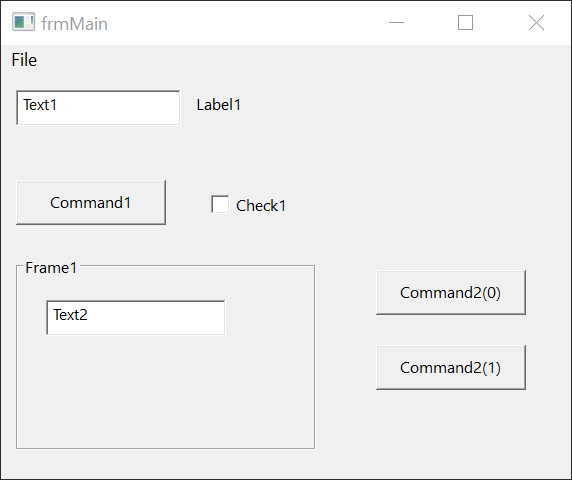
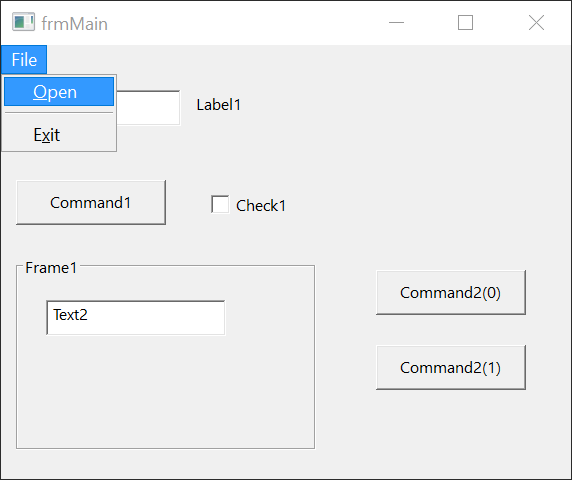
IDE: the last three pictures on BETA 1010 (Designer_Zoom50 with the grid off, Preview_Window with its File menu open, Export_Console without Export Verbose); shoot_docs opens a native menu with postWindowMessage (tb-launch.ps1's post mode) and lays its window over the form's

Changed region(s): [[0.0, 0.0938, 0.208, 0.3125]]

diff --git a/WIP.Screenshots.md b/WIP.Screenshots.md
@@ -340,8 +340,13 @@ whose project does not refer to the VB package.
 - **The zoom box is set by a `change` event on `#zoomSelect`**, never by the arrow keys, which
   also move the selected controls. Designer_Zoom shows the box and its list only, four rows of
   it: the Light theme's list has a smaller font, and the whole list makes the light picture 100
-  pixels shorter than the dark one. The form at 50 % is not in it: its scaled dots differ in
-  every capture, even with the ground left out.
+  pixels shorter than the dark one. The form at 50 % is a picture of its own, Designer_Zoom50,
+  taken `once` (dark only, owner): the grid is turned off for it first with the command
+  `tbFormDesigner_TurnGridIndicatorsOff` (what the toolbar's grid button toggles; settled by the
+  form's style changing), because the scaled dots differ in every capture even with the ground
+  left out. The change is the form's (its tab shows it changed, so the clip is formStateShot's,
+  without the tab row), and `formsReset` discards it: the shots after it keep their dots. Its
+  SVG is 4 % off the PNG (the scaled text), so the page shows the PNG.
 - **The Toolbox is scrolled with the mouse wheel**: a capture never holds more than the real
   window's height, so a taller page does not show more of it. Show Control Names is set from the
   panel's `...` menu and put back afterwards (saved nowhere). The search of Toolbox_Search is
@@ -350,8 +355,14 @@ whose project does not refer to the VB package.
 - **A report's PAGE WIDTH, LEFT MARGIN and RIGHT MARGIN bars show only under the pointer**
   (opacity 0, 1 on hover): Report_Controls rests the pointer on PAGE WIDTH.
 - **Preview_Window** is a running program's window, taken once with `captureWindow` from the
-  IDE's desktop. The File menu is not open in it: a native menu is a window
-  of its own (`#32768`), which the tool cannot yet capture and lay over the form's window.
+  IDE's desktop, with its File menu open. A key pressed on a private desktop reaches no window,
+  so the menu is opened as Alt+F opens it: `postWindowMessage` (`tb-ide.mjs`, the `post` mode
+  of `tb-launch.ps1`) posts `WM_SYSCOMMAND` `SC_KEYMENU` `'f'` to the form's window. The menu is
+  then a top-level window of class `#32768` of the same process (`openMenuWindow`); both windows
+  are captured (`windowPicture`, whose user-name check covers the menu's window texts too) and
+  `withMenu` lays the menu's picture over the form's where it is on the desktop, the ground
+  beyond the form transparent. The menu is drawn with its mnemonics underlined, as the keyboard
+  opens it. `WM_CANCELMODE` posted to the form closes it before the run is stopped.
 - PROPERTIES shows no description line: in BETA 1005 its text is set in a footer of the
   designer's own properties box, which is 0 pixels wide, so nothing is drawn.
 
@@ -364,7 +375,7 @@ project file the lane opens is `project.twinproj`, the name the title shows. `pr
 the same project with Microsoft Scripting Runtime's symbol overridden as `SR` and a type library
 that is not on the machine (`MISSING_LIBRARY`) put in the staged `Settings`; the IDE opens
 Project Settings by itself a second after loading it, and the setup's prepare closes it.
-`projects-start` is the IDE with no project. Its 15 pictures are under `docs/IDE/Projects/Images/`;
+`projects-start` is the IDE with no project. Its 16 pictures are under `docs/IDE/Projects/Images/`;
 `Menu_File_Project` is the File menu with the project open (the Menu pages keep `Menu_File`, with
 none, which `New Project.md` also shows).
 
@@ -396,11 +407,13 @@ none, which `New Project.md` also shows).
   which `PAGE_DEFAULTS` blocks anyway).
 - Settings_Close types into the description box with real keys, after `templateBuildPath`, and
   closes the question with Yes, close, which keeps nothing.
-- **Not taken: the export console** (marker `projects-export-console` left). It was reached (Export
-  Path set in the staged copy to a folder under `PACKAGE_ROOT`, so that the first line holds no
-  user name; the console floated before Clear, which the docked console is too narrow to show; the
-  list scrolled with the wheel to its top and its end, as two parts of a composite), but with
-  Export Verbose every `DONE` line shows `&#92;` for each backslash, a defect not yet decided on.
+- **Export_Console** is File > Export Project with Export Verbose off (owner: the verbose `DONE`
+  lines show `&#92;` for each backslash). `stageProjects` sets `project.exportPath` in the
+  staged `Settings` of both projects setups to `PACKAGE_ROOT\Export` (`PJ_EXPORT`), so that the
+  first line names no user; the shot removes that folder before the export and after it. The
+  console is floated (docked, it is too narrow for the first line) and emptied with its Clear
+  button before the export, and emptied again afterwards; the shot is the setup's last. The
+  times are set in the page (`fixConsoleTimes`). Both lines fit with no scrolling.
 
 ## Special IDE states
 

diff --git a/docs/IDE/Forms/Previewing.md b/docs/IDE/Forms/Previewing.md
@@ -23,9 +23,7 @@ Click **PREVIEW** in the toolbar, titled *Launch the form in isolation to test i
 - Preview works for a form and for a report. For a user control or a property page, the button is greyed out and <kbd>F6</kbd> does nothing.
 - <kbd>F6</kbd> in the form's code also previews the form.
 
-![The previewed form as a window of its own, titled frmMain, with its File menu in the menu bar and the controls laid out as in the designer.](Images/Preview_Window.png){:width="381" height="320"}
-
-<!-- SHOT forms-preview-window: the same window with the File menu made in the menu editor open -->
+![The previewed form as a window of its own, titled frmMain, with its File menu open over the top left corner and the other controls laid out as in the designer.](Images/Preview_Window.png){:width="381" height="320"}
 
 
 A preview is a debug session. `Form_Load` runs, a breakpoint in it stops the run, a click on a button runs its `Click` handler, and closing the window runs `Form_Unload` and `Form_Terminate` and writes `[DEBUGGER] done.` to the **DEBUG CONSOLE**. [Run Or Preview](../Debugging/Running#run-or-preview) describes what <kbd>F6</kbd> does in each place, and [Breakpoints and stepping](../Debugging/Breakpoints-and-Stepping) what you can do while it is stopped.

diff --git a/docs/IDE/Projects/Saving-and-Exporting.md b/docs/IDE/Projects/Saving-and-Exporting.md
@@ -160,7 +160,7 @@ Each export writes a first line, `[EXPORT] exporting current project to "…"`, 
 > [!NOTE] BETA 1010
 > Each `DONE` line shows `&#92;` for every backslash of its path: `[EXPORT]  DONE: &#92;Sources&#92;Startup.twin` for the file `Sources\Startup.twin` of the export folder. The files are written correctly, and the other `[EXPORT]` lines show their backslashes.
 
-<!-- SHOT projects-export-console: the DEBUG CONSOLE after Export Project with Export Verbose on, showing the first [EXPORT] line, several DONE lines and the COMPLETED line -->
+![The DEBUG CONSOLE, floating, after Export Project with Export Verbose off: the line that starts the export and names the export folder, and the COMPLETED line with the numbers of folders and files.](Images/Export_Console.png){:width="600" height="132"}
 
 The `export` command of the tB executable and of the import/export script deletes nothing. See [What both programs do](../../../Features/Packages/Import-Export-Tool#what-both-programs-do).
 

diff --git a/docs/IDE/Forms/Designer.md b/docs/IDE/Forms/Designer.md
@@ -174,7 +174,7 @@ With a designer focused, the **View** menu shows **Zoom In** and **Zoom Out** in
 
 ![The zoom box of the toolbar showing 50 %, with its list open below it and 50 % highlighted between 25 % and 75 %; the list scrolls on to further values.](Images/Designer_Zoom.png){:width="240" height="119"}
 
-<!-- SHOT forms-zoom: a second picture, the same form at 50 % so the half-size surface shows -->
+![frmMain in the designer at 50 %, drawn at half size with its grid hidden; the readout under it still gives 380 x 270.](Images/Designer_Zoom50.png){:width="196" height="172"}
 
 
 > [!NOTE] BETA 1010
